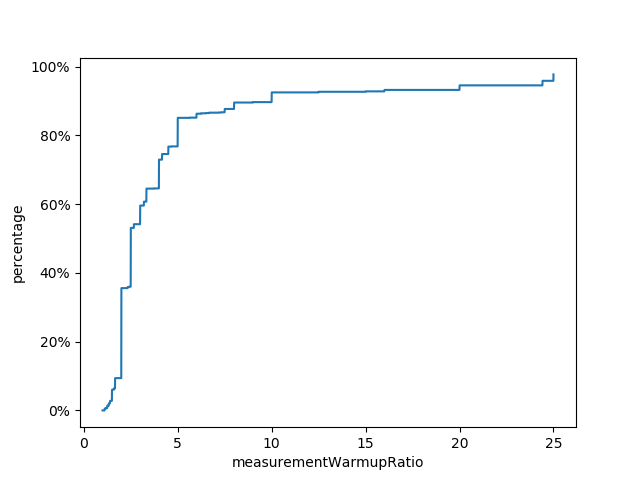
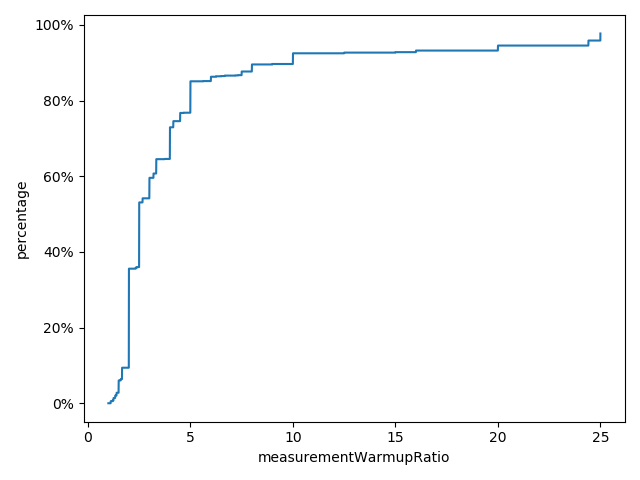
Use tight plot layout

diff --git a/RQ1_Python/execution_time_cumulative_smaller_1.py b/RQ1_Python/execution_time_cumulative_smaller_1.py
@@ -16,5 +16,6 @@ plt.gca().yaxis.set_major_formatter(PercentFormatter(1))
 plt.xlabel('executionTimePercentage')
 plt.ylabel('cumulativePercentage')
 plt.xticks(np.arange(0, 1.1, step=0.1))
+plt.tight_layout()
 #plt.show()
 plt.savefig('export.png')

diff --git a/RQ1_Python/measurementWarmupRatio_larger_1.py b/RQ1_Python/measurementWarmupRatio_larger_1.py
@@ -17,5 +17,6 @@ plt.plot(base[:-1], cumulativeAll, label="all")
 plt.gca().yaxis.set_major_formatter(PercentFormatter(1))
 plt.ylabel('percentage')
 plt.xlabel('measurementWarmupRatio')
+plt.tight_layout()
 #plt.show()
 plt.savefig('export.png')

diff --git a/RQ1_Python/measurementWarmupRatio_smaller_1.py b/RQ1_Python/measurementWarmupRatio_smaller_1.py
@@ -17,5 +17,6 @@ plt.plot(base[:-1], cumulativeAll, label="all")
 plt.gca().yaxis.set_major_formatter(PercentFormatter(1))
 plt.ylabel('percentage')
 plt.xlabel('measurementWarmupRatio')
+plt.tight_layout()
 #plt.show()
 plt.savefig('export.png')

diff --git a/RQ1_Python/execution_time_cumulative_larger_1.py b/RQ1_Python/execution_time_cumulative_larger_1.py
@@ -16,5 +16,6 @@ plt.gca().yaxis.set_major_formatter(PercentFormatter(1))
 plt.xlabel('executionTimePercentage')
 plt.ylabel('cumulativePercentage')
 plt.xscale('log')
+plt.tight_layout()
 #plt.show()
 plt.savefig('export.png')
